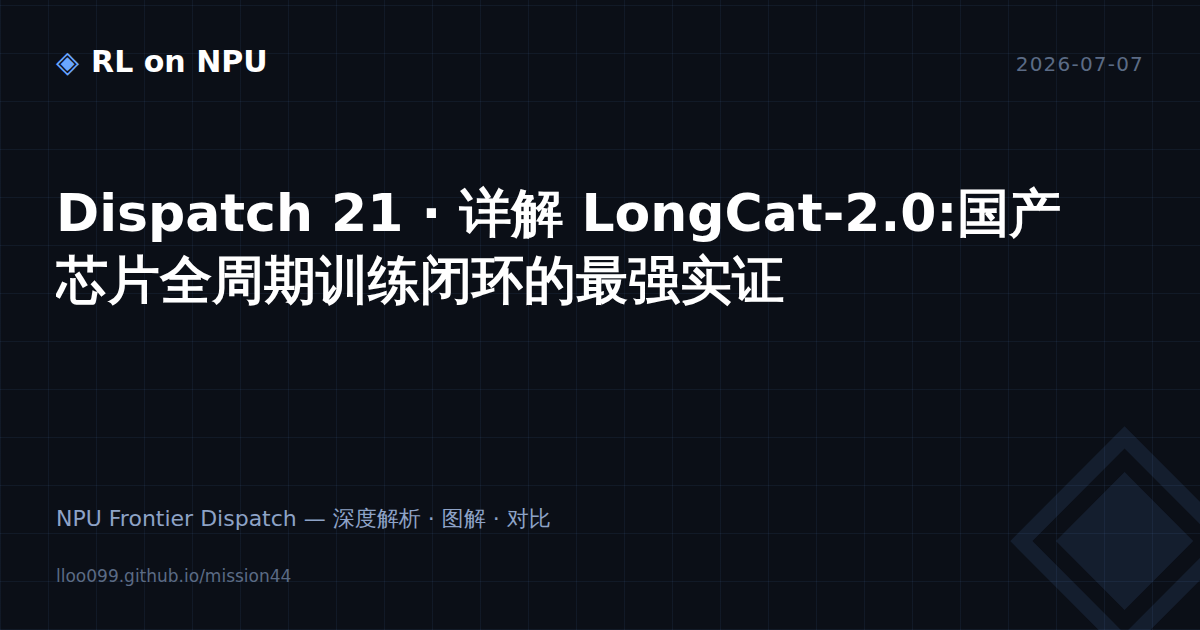
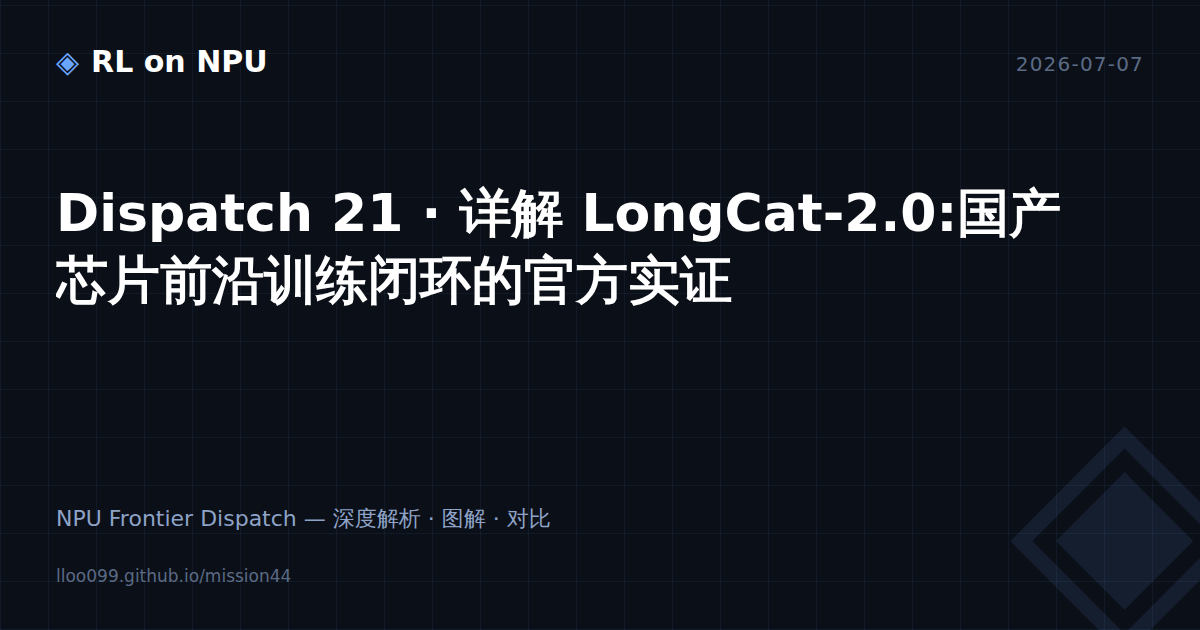
Post-rebase: regenerate D21 og card + snapshot for corrected title (官方来源校正版 from remote kept wholesale; my HCCL-based addendum dropped in its favor)

Changed region(s): [[0.1233, 0.3921, 0.6475, 0.4825]]

diff --git a/p/dispatch-21-longcat-2.html b/p/dispatch-21-longcat-2.html
@@ -3,12 +3,12 @@
 <head>
   <meta charset="UTF-8" />
   <meta name="viewport" content="width=device-width, initial-scale=1.0" />
-  <title>Dispatch 21 · 详解 LongCat-2.0:国产芯片全周期训练闭环的最强实证 · NPU Frontier Dispatch</title>
-  <meta name="description" content="美团 1.6T/A48B MoE(与 V4-Pro 同档)、原生 1M 上下文、LSA 稀疏注意力;主张预训练(35T+ token)与后训练全程在 5 万余张国产 ASIC 超节点完成(HCCL,疑似 910C 未官宣)。6D 并行拆解、证据天平分级(权重可验/闭环待验/芯片推测)、SWE Pro 59.5 的口径警示;与 openPangu 精确互补——一个给规模实证、一个给代码参考。" />
+  <title>Dispatch 21 · 详解 LongCat-2.0:国产芯片前沿训练闭环的官方实证 · NPU Frontier Dispatch</title>
+  <meta name="description" content="官方来源校正版:1.6T/A48B MoE、原生 1M 上下文,LSA 的 SI/CLI/HI 三类索引优化、135B 5-gram Embedding 与 3-step MTP。预训练使用 5 万余片国产 AI ASIC,系统含 6D 并行、512+ 路 CP、Muon 和确定性算子;后训练披露 MOPD 多教师在线蒸馏。芯片厂商/型号与 RL 算法未公开,不再把 HCCL、910C 或 RL-on-Ascend 当成已确认事实。" />
   <link rel="canonical" href="https://lloo099.github.io/mission44/p/dispatch-21-longcat-2.html" />
   <meta property="og:type" content="article" />
-  <meta property="og:title" content="Dispatch 21 · 详解 LongCat-2.0:国产芯片全周期训练闭环的最强实证" />
-  <meta property="og:description" content="美团 1.6T/A48B MoE(与 V4-Pro 同档)、原生 1M 上下文、LSA 稀疏注意力;主张预训练(35T+ token)与后训练全程在 5 万余张国产 ASIC 超节点完成(HCCL,疑似 910C 未官宣)。6D 并行拆解、证据天平分级(权重可验/闭环待验/芯片推测)、SWE Pro 59.5 的口径警示;与 openPangu 精确互补——一个给规模实证、一个给代码参考。" />
+  <meta property="og:title" content="Dispatch 21 · 详解 LongCat-2.0:国产芯片前沿训练闭环的官方实证" />
+  <meta property="og:description" content="官方来源校正版:1.6T/A48B MoE、原生 1M 上下文,LSA 的 SI/CLI/HI 三类索引优化、135B 5-gram Embedding 与 3-step MTP。预训练使用 5 万余片国产 AI ASIC,系统含 6D 并行、512+ 路 CP、Muon 和确定性算子;后训练披露 MOPD 多教师在线蒸馏。芯片厂商/型号与 RL 算法未公开,不再把 HCCL、910C 或 RL-on-Ascend 当成已确认事实。" />
   <meta property="og:url" content="https://lloo099.github.io/mission44/p/dispatch-21-longcat-2.html" />
   <meta property="og:image" content="https://lloo099.github.io/mission44/assets/og/dispatch-21-longcat-2.png" />
   <meta name="twitter:card" content="summary_large_image" />
@@ -18,9 +18,9 @@
   <style>body{font-family:system-ui,sans-serif;background:#0b0f17;color:#dfe7f5;max-width:720px;margin:80px auto;padding:0 20px;line-height:1.7}a{color:#6aa6ff}</style>
 </head>
 <body>
-  <h1>Dispatch 21 · 详解 LongCat-2.0:国产芯片全周期训练闭环的最强实证</h1>
-  <p><em>2026-07-07 · NPU Frontier Dispatch · LongCat-2.0 / domestic-chips / MoE / RL-on-NPU</em></p>
-  <p>美团 1.6T/A48B MoE(与 V4-Pro 同档)、原生 1M 上下文、LSA 稀疏注意力;主张预训练(35T+ token)与后训练全程在 5 万余张国产 ASIC 超节点完成(HCCL,疑似 910C 未官宣)。6D 并行拆解、证据天平分级(权重可验/闭环待验/芯片推测)、SWE Pro 59.5 的口径警示;与 openPangu 精确互补——一个给规模实证、一个给代码参考。</p>
+  <h1>Dispatch 21 · 详解 LongCat-2.0:国产芯片前沿训练闭环的官方实证</h1>
+  <p><em>2026-07-07 · NPU Frontier Dispatch · LongCat-2.0 / domestic-chips / MoE / post-training</em></p>
+  <p>官方来源校正版:1.6T/A48B MoE、原生 1M 上下文,LSA 的 SI/CLI/HI 三类索引优化、135B 5-gram Embedding 与 3-step MTP。预训练使用 5 万余片国产 AI ASIC,系统含 6D 并行、512+ 路 CP、Muon 和确定性算子;后训练披露 MOPD 多教师在线蒸馏。芯片厂商/型号与 RL 算法未公开,不再把 HCCL、910C 或 RL-on-Ascend 当成已确认事实。</p>
   <p><a href="https://lloo099.github.io/mission44/#blog/dispatch-21-longcat-2">→ 阅读全文(RL-on-NPU Research Dashboard)</a></p>
 </body>
 </html>